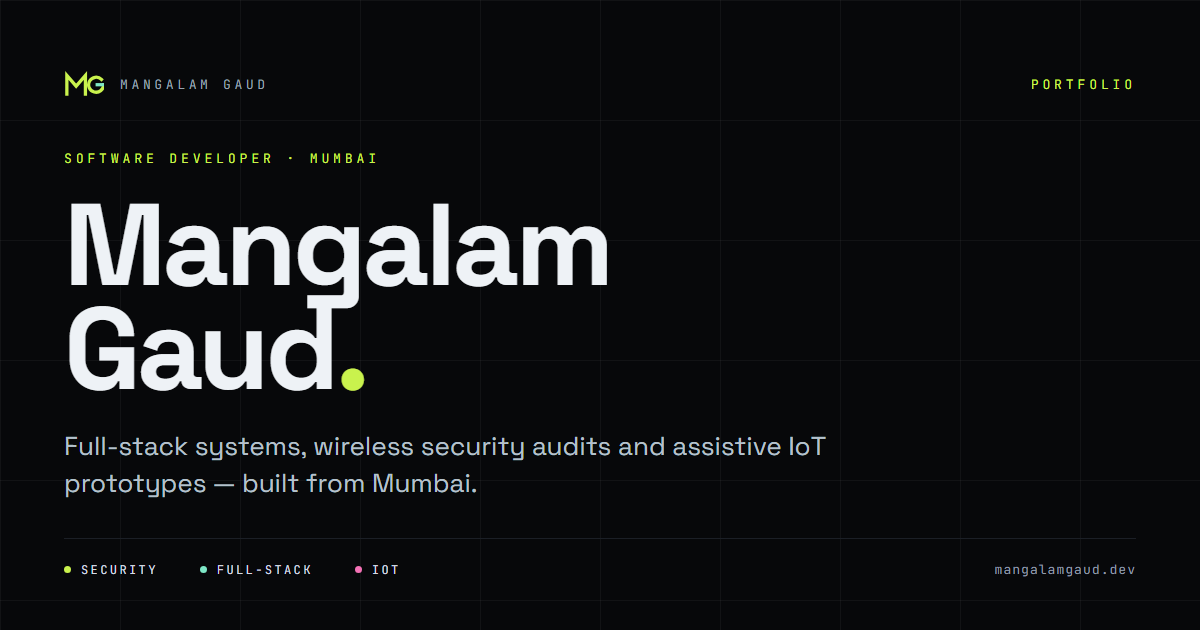
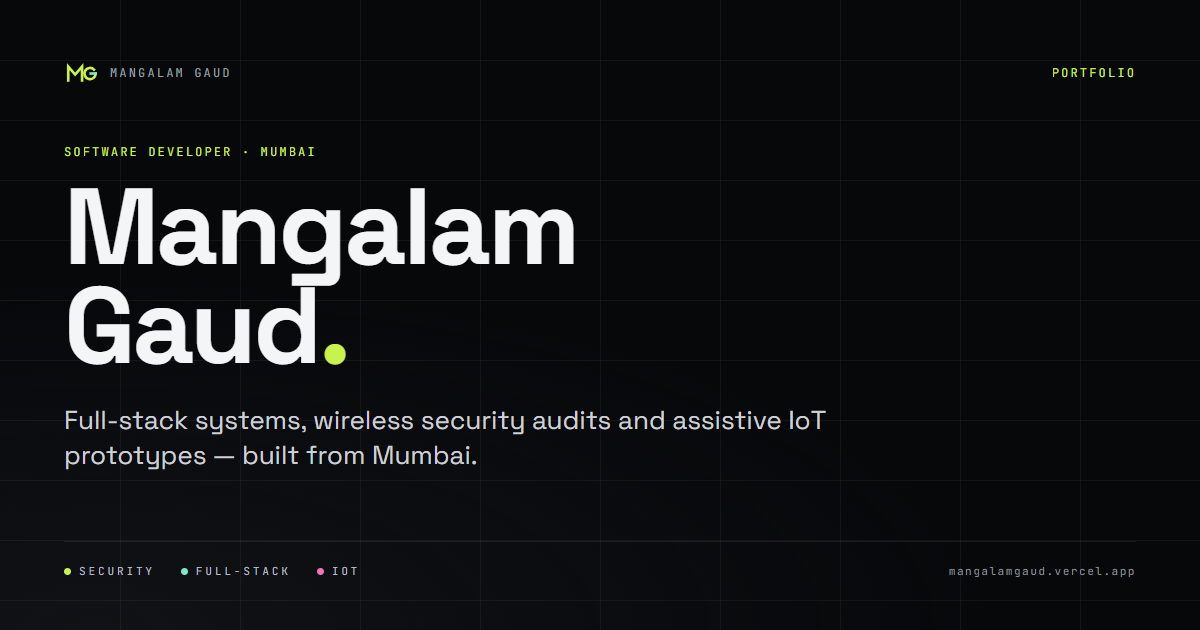
Share card: live domain in OG image, og:site_name, corrected page descriptions

diff --git a/src/components/SEOHead.tsx b/src/components/SEOHead.tsx
@@ -6,7 +6,7 @@ import { projects, profile, siteUrl } from "@/data";
 const routeData: Record<string, { title: string; desc: string; type: "WebSite" | "ProfilePage" | "CollectionPage" }> = {
   "/": {
     title: "Mangalam Gaud | Software Developer — Cybersecurity · Full-stack · IoT",
-    desc: "Portfolio of Mangalam Gaud, B.Sc. IT student in Mumbai. Full-stack systems, security tooling and embedded/IoT prototypes, including Drishtipath assistive railway guidance.",
+    desc: "Portfolio of Mangalam Gaud, B.Sc. IT student in Mumbai. Full-stack systems, security tooling and embedded/IoT prototypes, including Drishtipath assistive navigation and Stratavex mine-safety monitoring.",
     type: "WebSite",
   },
   "/about": {
@@ -21,7 +21,7 @@ const routeData: Record<string, { title: string; desc: string; type: "WebSite" |
   },
   "/projects": {
     title: "Selected Projects | Mangalam Gaud",
-    desc: "Mangaud CollegeHub, Smart-Influencing, Mangaud Banking Console, Drishtipath AWS architecture, and more. Full-stack and embedded/IoT projects.",
+    desc: "Mangaud CollegeHub, Smart-Influencing, Mangaud Banking Console, Smart-Influencing AWS architecture, and more. Full-stack and embedded/IoT projects.",
     type: "CollectionPage",
   },
   "/experience": {
@@ -101,6 +101,7 @@ export function SEOHead({ pathname }: { pathname: string }) {
     // Soft 404: keep unknown paths out of the index.
     setMeta("robots", isKnownRoute ? "index,follow" : "noindex,follow");
     setMeta("og:type", "website", "property");
+    setMeta("og:site_name", "Mangalam Gaud", "property");
     setMeta("og:url", `${siteUrl}${pathname}`, "property");
     setMeta("og:title", resolved.title, "property");
     setMeta("og:description", resolved.desc, "property");

diff --git a/index.html b/index.html
@@ -17,10 +17,12 @@
 
     <!-- Open Graph -->
     <meta property="og:type" content="website" />
+    <meta property="og:site_name" content="Mangalam Gaud" />
     <meta property="og:url" content="https://mangalamgaud.vercel.app" />
     <meta property="og:title" content="Mangalam Gaud | Software Developer — Cybersecurity · Full-stack · IoT" />
     <meta property="og:description" content="Portfolio of Mangalam Gaud — B.Sc. IT student building security tooling, full-stack systems and IoT prototypes." />
     <meta property="og:image" content="https://mangalamgaud.vercel.app/og.png" />
+    <meta property="og:image:type" content="image/png" />
     <meta property="og:image:width" content="1200" />
     <meta property="og:image:height" content="630" />
     <meta property="og:image:alt" content="Mangalam Gaud — Software Developer, Cybersecurity · Full-stack · IoT" />
